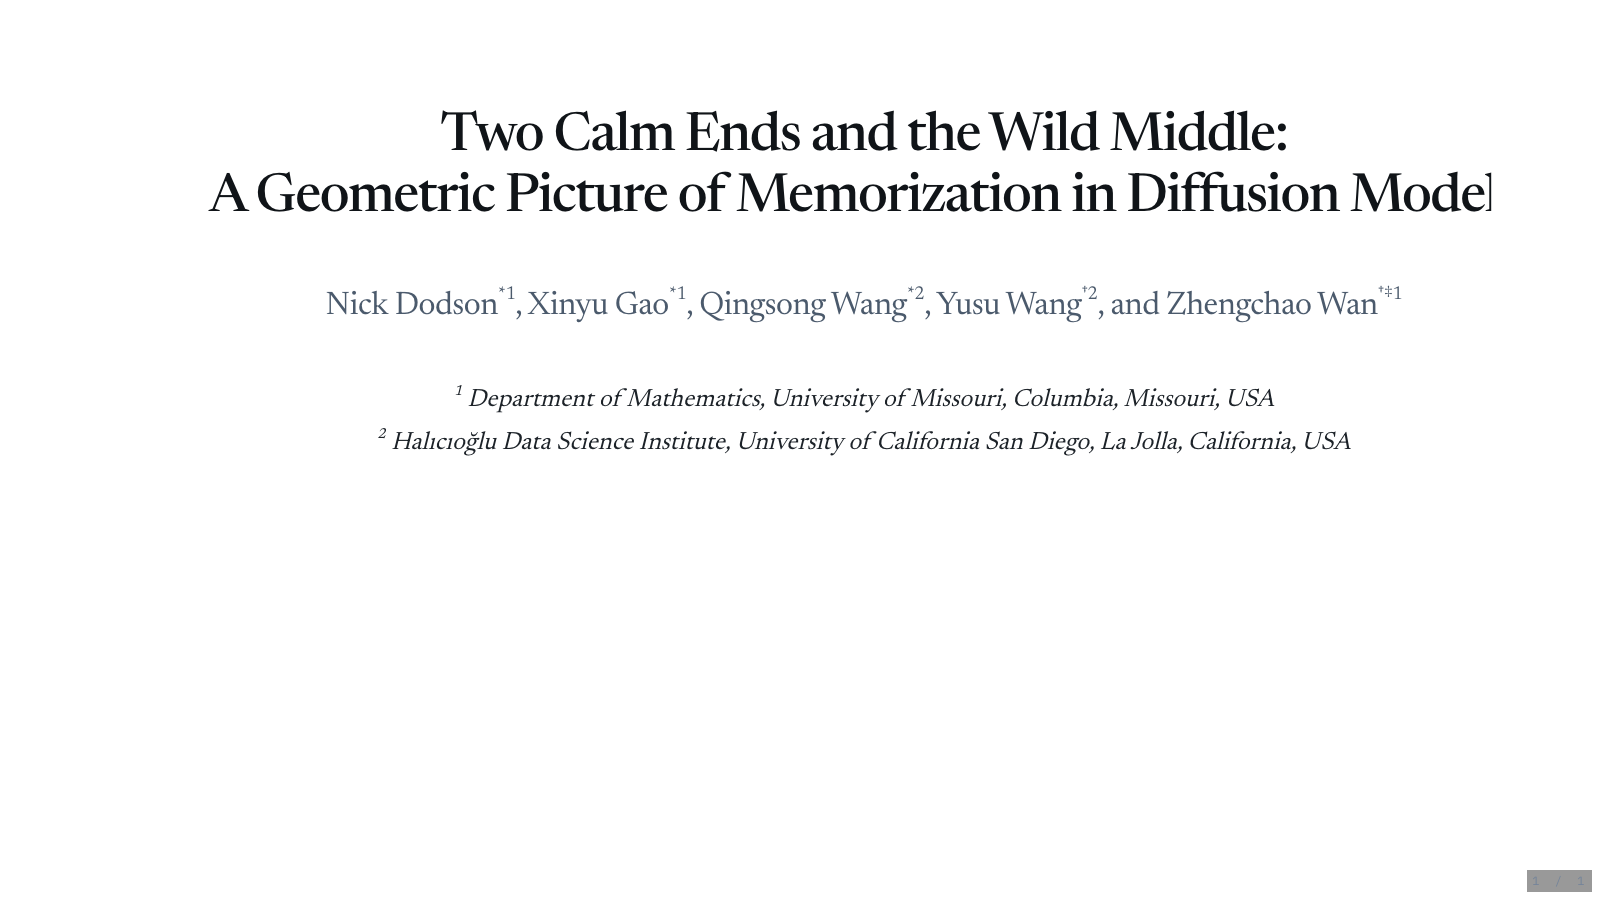
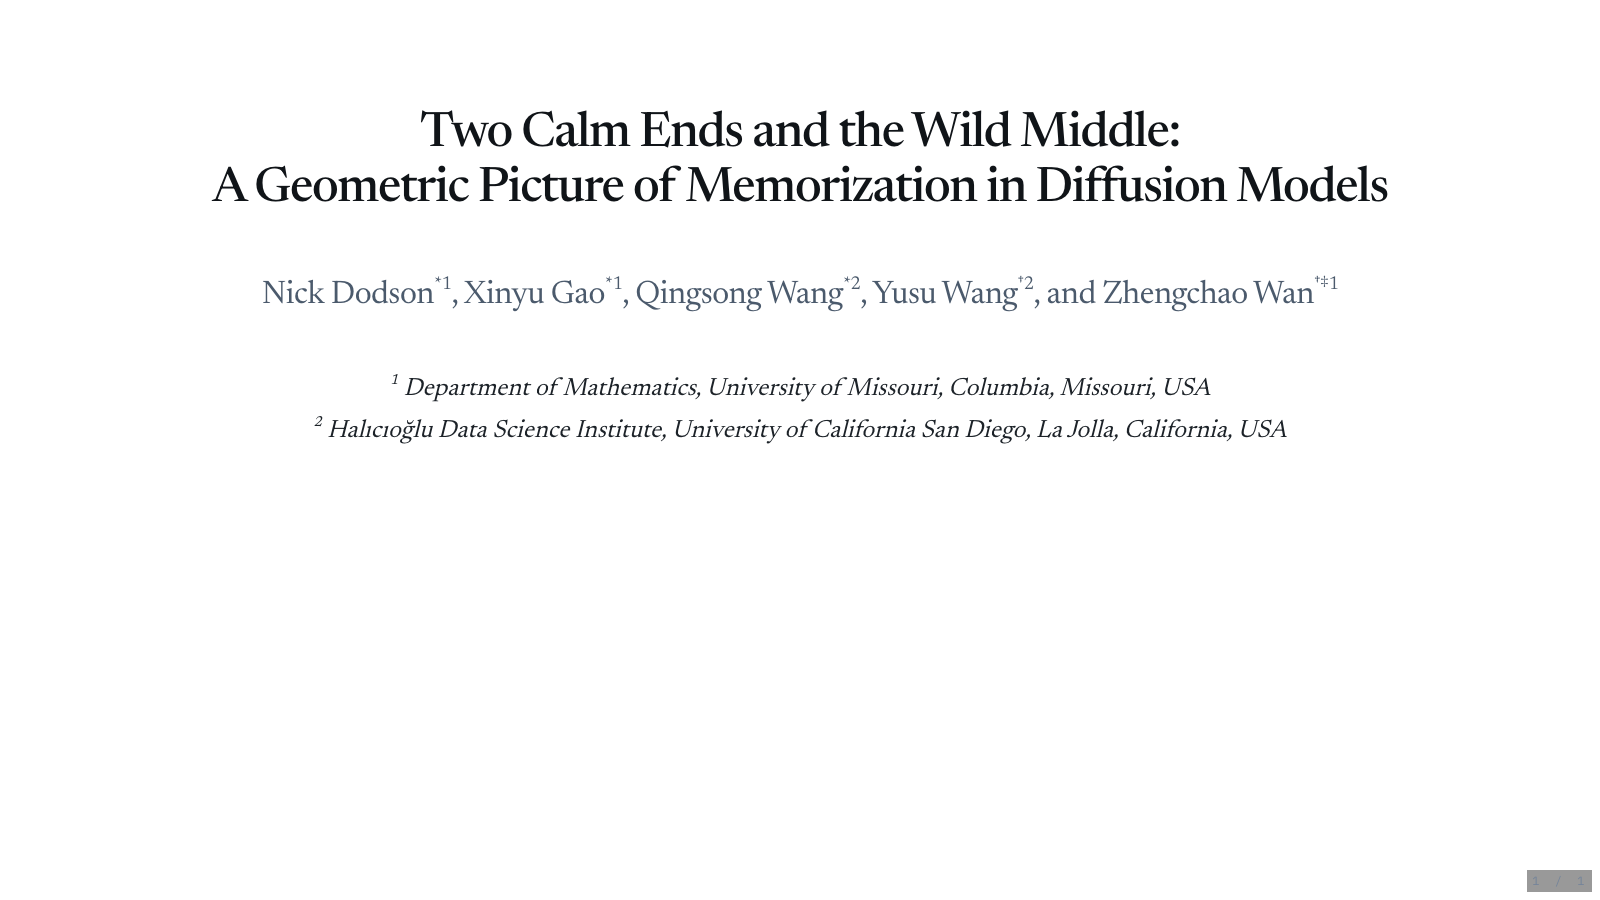
Fix title slide clipping

Changed region(s): [[0.125, 0.1244, 0.9375, 0.2489], [0.1875, 0.4044, 0.8438, 0.4978], [0.1562, 0.3111, 0.875, 0.3733]]

diff --git a/shared/deck.css b/shared/deck.css
@@ -251,7 +251,7 @@ body.has-custom-nav .reveal .slide-number {
 }
 
 .paper-title-shell {
-  width: min(100%, 92vw);
+  width: min(100%, 96vw);
   margin: 0 auto;
   display: grid;
   gap: 0.98em;
@@ -260,7 +260,7 @@ body.has-custom-nav .reveal .slide-number {
 .paper-title-shell h1 {
   margin: 0;
   font-family: "Newsreader", Georgia, serif;
-  font-size: clamp(1.85rem, 3.8vw, 3.4rem);
+  font-size: clamp(1.8rem, 3.45vw, 3.08rem);
   font-weight: 500;
   line-height: 1.12;
   letter-spacing: -0.028em;
